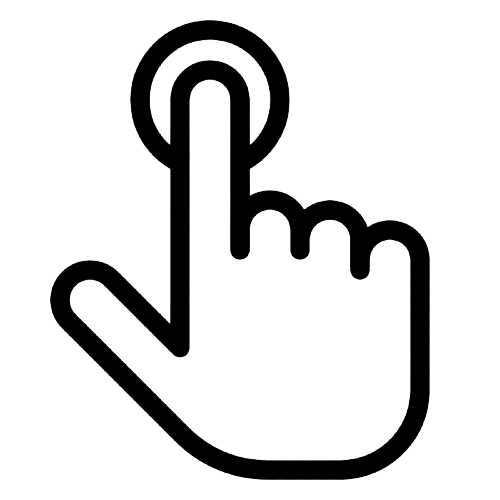
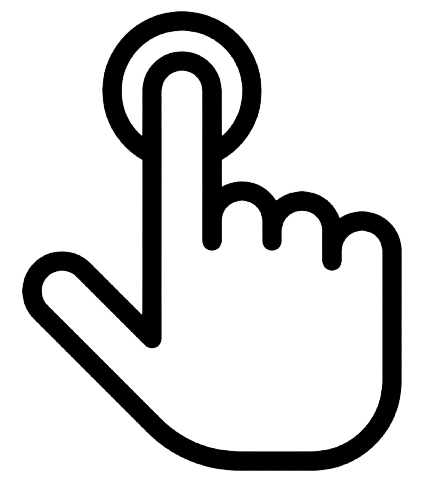
터치 화면

diff --git a/CSS/users/index_style.css b/CSS/users/index_style.css
@@ -20,9 +20,38 @@
   font-size: 3vw;
   text-align: center;
   margin-top: 7vh;
+  width: 100%;
 }
 
 .usermain #touch img {
   width: auto;
   height: 70vh;
+}
+
+.Kiosk_usermain {
+  border-top: 5vh solid rgb(235, 235, 235);
+  border-bottom: 5vh solid rgb(235, 235, 235);
+  border-left: 5vh solid rgb(235, 235, 235);
+  border-right: 5vh solid rgb(235, 235, 235);
+  width: calc(100vw -10vh);
+  height: 90vh;
+  display: flex;
+  flex-direction: column;
+  align-items: center;
+  justify-content: center;
+}
+.Kiosk_usermain h1 {
+  font-size: 4vh;
+  text-align: center;
+}
+.Kiosk_usermain #Kiosk_touch {
+  font-size: 3vw;
+  text-align: center;
+  margin-top: 7vh;
+  width: 100%;
+}
+
+.Kiosk_usermain #Kiosk_touch img {
+  width: 90%;
+  height: auto;
 }

diff --git a/users/index_kioski.html b/users/index_kioski.html
@@ -9,10 +9,10 @@
 
 </head>
 
-<body class="usermain" onclick="start()">
+<body class="Kiosk_usermain" onclick="start()">
 
   <h1>주문을 원하시면 저를 불러주시거나 버튼은 눌러주세요</h1>
-  <div id="touch">
+  <div id="Kiosk_touch">
     <img src="touch.png"></img>
   </div>
 
